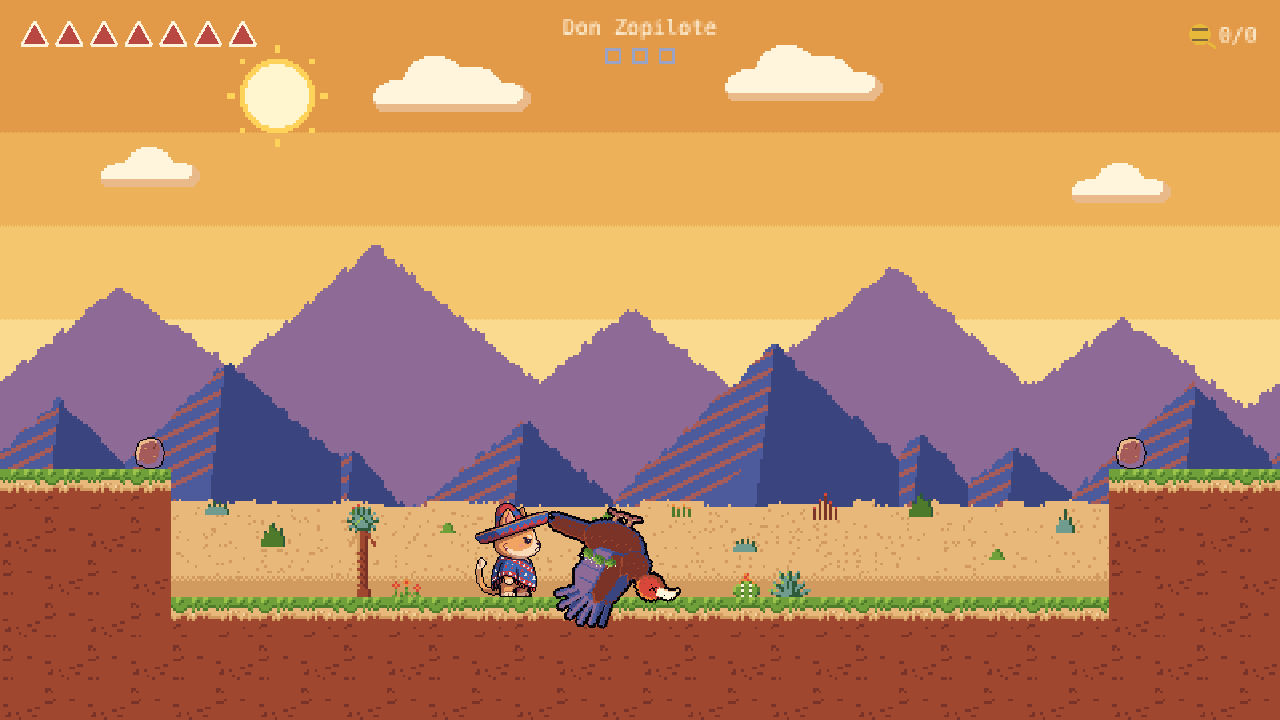
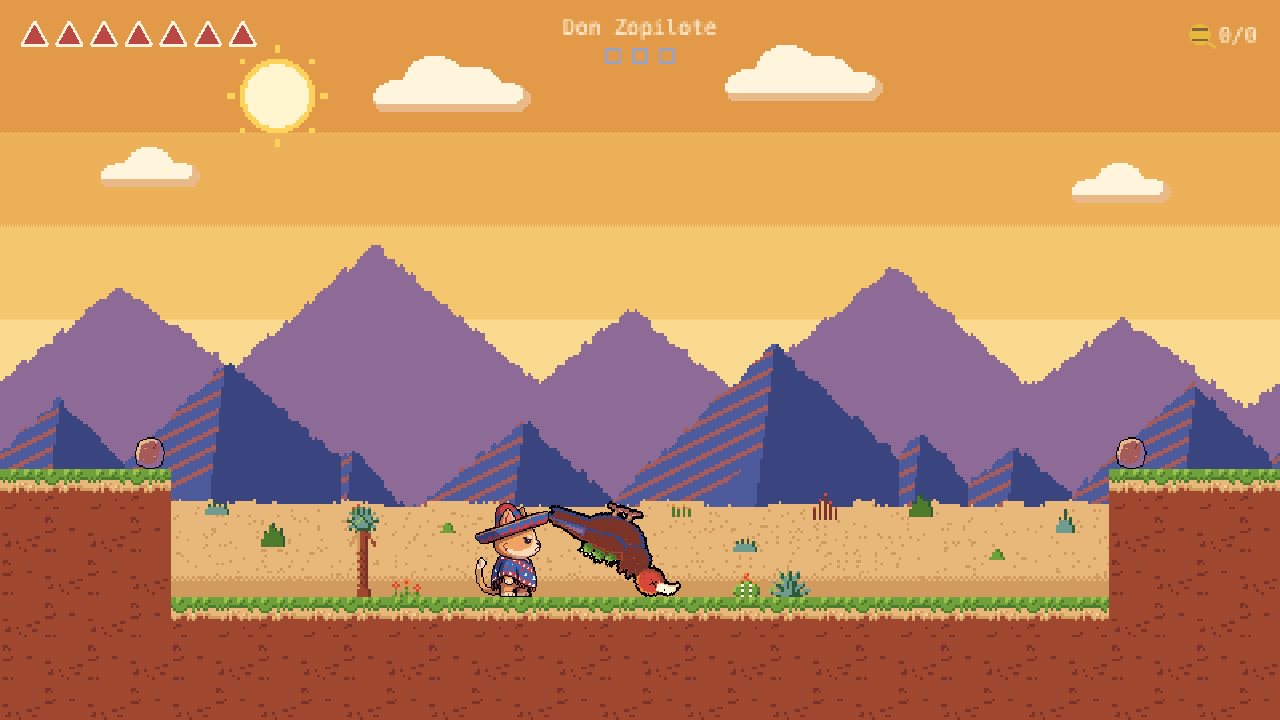
fix(GDD-BOS-02): tuck his wings when hurt or defeated, test the crown in every look
Review of #75: the hurt and defeat frames hung his lowered wings 12 to
16 px below the floor, where he is hurt after a claw hit and lies
defeated. Both now tuck their wings (defeat 4 px higher), with an art
test that no frame shown resting on the floor goes below his box's
bottom; bossPose reports the wings as tucked. The crown test now covers
every look, not only the flap. Screenshots retaken. L-010 recurrence 18,
new L-059.

Claude-Session: https://claude.ai/code/session_019EBq9H92oEKhrfqqV6LWWF

Changed region(s): [[0.4062, 0.7028, 0.5312, 0.8861]]

diff --git a/src/ui/bossPose.ts b/src/ui/bossPose.ts
@@ -9,7 +9,7 @@ export const BOSS_DEFEAT_LOOKS = ['defeat', 'defeatWhite'] as const;
 export type BossLook = (typeof BOSS_LOOKS)[number] | (typeof BOSS_DEFEAT_LOOKS)[number];
 
 export interface BossPose {
-  /** Raised for the telegraph and on the upbeat of a flap, tucked while he dives and sweeps, lowered otherwise. */
+  /** Raised for the telegraph and on the upbeat of a flap, tucked while he dives, sweeps, is hurt or defeated, lowered otherwise. */
   readonly wings: 'raised' | 'lowered' | 'tucked';
   /** The body's flash: red in the telegraph (GDD-ENM-01), white when hurt or defeated, on for BOSS.flashSteps and off for as many. */
   readonly flash: 'red' | 'white' | null;
@@ -49,7 +49,7 @@ export function bossPose(b: BossState): BossPose {
     }
   })();
   return {
-    wings: b.mode === 'dive' || b.mode === 'sweep' ? 'tucked' : b.mode === 'telegraph' || flapUp ? 'raised' : 'lowered',
+    wings: b.mode === 'dive' || b.mode === 'sweep' || b.mode === 'hurt' || b.mode === 'defeated' ? 'tucked' : b.mode === 'telegraph' || flapUp ? 'raised' : 'lowered',
     flash,
     dazed: b.mode === 'stuck',
     crown: bossPips(b),
@@ -69,7 +69,7 @@ export function bossFrameInfo(frame: number): { look: BossLook; crown: number; w
   const defeated = frame >= BOSS.hits * BOSS_LOOKS.length;
   const look: BossLook = defeated ? BOSS_DEFEAT_LOOKS[frame - BOSS.hits * BOSS_LOOKS.length]! : BOSS_LOOKS[frame % BOSS_LOOKS.length]!;
   const crown = defeated ? 0 : BOSS.hits - Math.floor(frame / BOSS_LOOKS.length);
-  const wings = look.startsWith('flap') || look.startsWith('climb') ? (look.endsWith('Up') ? 'raised' : 'lowered') : look.startsWith('telegraph') ? 'raised' : look === 'dive' || look === 'sweep' ? 'tucked' : 'lowered';
+  const wings = look.startsWith('flap') || look.startsWith('climb') ? (look.endsWith('Up') ? 'raised' : 'lowered') : look.startsWith('telegraph') ? 'raised' : look === 'dive' || look === 'sweep' || look.startsWith('hurt') || look.startsWith('defeat') ? 'tucked' : 'lowered';
   const flash = look === 'telegraphRed' ? 'red' : look === 'hurtWhite' || look === 'defeatWhite' ? 'white' : null;
   return { look, crown, wings, flash, dots: look === 'stuck' ? 3 : 0 };
 }

diff --git a/src/ui/bossPose.test.ts b/src/ui/bossPose.test.ts
@@ -40,7 +40,7 @@ describe('GDD-BOS-02 how Don Zopilote is drawn', () => {
     for (const [mode, white, plain] of [['hurt', 'hurtWhite', 'hurt'], ['defeated', 'defeatWhite', 'defeat']] as const) {
       const poses = [0, 3, 4, 8].map((a) => bossPose(inMode(mode, a)));
       expect(poses.map((p) => p.flash), mode).toEqual(['white', 'white', null, 'white']);
-      expect(poses.map((p) => p.wings), mode).toEqual(Array(4).fill('lowered'));
+      expect(poses.map((p) => p.wings), mode).toEqual(Array(4).fill('tucked'));
       expect(poses.map((p) => p.look), mode).toEqual([white, white, plain, white]);
     }
   });
@@ -66,10 +66,10 @@ describe('GDD-BOS-02 how Don Zopilote is drawn', () => {
     expect(bossFrameInfo(2)).toEqual({ look: 'climbUp', crown: 3, wings: 'raised', flash: null, dots: 0 });
     expect(bossFrameInfo(3)).toEqual({ look: 'climbDown', crown: 3, wings: 'lowered', flash: null, dots: 0 });
     expect(bossFrameInfo(6)).toEqual({ look: 'dive', crown: 3, wings: 'tucked', flash: null, dots: 0 });
-    expect(bossFrameInfo(10)).toEqual({ look: 'hurtWhite', crown: 3, wings: 'lowered', flash: 'white', dots: 0 });
+    expect(bossFrameInfo(10)).toEqual({ look: 'hurtWhite', crown: 3, wings: 'tucked', flash: 'white', dots: 0 });
     expect(bossFrameInfo(18)).toEqual({ look: 'stuck', crown: 2, wings: 'lowered', flash: null, dots: 3 });
     expect(bossFrameInfo(30)).toEqual({ look: 'sweep', crown: 1, wings: 'tucked', flash: null, dots: 0 });
-    expect(bossFrameInfo(34)).toEqual({ look: 'defeatWhite', crown: 0, wings: 'lowered', flash: 'white', dots: 0 });
+    expect(bossFrameInfo(34)).toEqual({ look: 'defeatWhite', crown: 0, wings: 'tucked', flash: 'white', dots: 0 });
   });
 });
 

diff --git a/e2e/boss.spec.ts b/e2e/boss.spec.ts
@@ -116,9 +116,9 @@ test('GDD-BOS-02 his body flashes red in his telegraph and white when a claw swi
     return d.boss()!.mode === 'hurt' && d.bossDrawn()?.flash === 'white' && d.bossBar().pips === 2 && d.bossBar().outlines === 1;
   });
   // One hit taken: two points left on his crown (GDD-BOS-02).
-  expect(await api(page, () => window.__PONCHO__!.bossDrawn())).toMatchObject({ crown: 2, look: 'hurtWhite', wings: 'lowered' });
-  const [white, first, last] = await pixelsAt(page, [{ x: 232, y: 212 }, { x: 230, y: 21 }, { x: 250, y: 21 }]);
-  // The flash's white is World 1's pale cream, fff6d0.
+  expect(await api(page, () => window.__PONCHO__!.bossDrawn())).toMatchObject({ crown: 2, look: 'hurtWhite', wings: 'tucked' });
+  const [white, first, last] = await pixelsAt(page, [{ x: 232, y: 208 }, { x: 230, y: 21 }, { x: 250, y: 21 }]);
+  // The flash's white is World 1's pale cream, fff6d0, sampled 1 px above his middle (232, 209), clear of his tucked wing's shaded fold.
   expect(Math.min(white!.r, white!.g), JSON.stringify(white)).toBeGreaterThan(230);
   expect(white!.b, JSON.stringify(white)).toBeGreaterThan(190);
   expect(first!.g, JSON.stringify(first)).toBeLessThan(110); // still filled

diff --git a/docs/GDD.md b/docs/GDD.md
@@ -12,7 +12,7 @@ This document is the anchor for every feature. Rules:
 
 ## Changelog
 
-- **0.9.5** (2026-11-03) GDD-BOS-02, GDD-CMB-01, GDD-ART-01, GDD-ART-06: Don Zopilote's real art, from the design canvas the user approved (user, 2026-11-03: "Ok merge it and implement it!"; the design saved in `assets/characters/don-zopilote/`). A chubby turkey vulture who crowned himself king of the desert, drawn in code at Poncho's scale (`scripts/art/boss.mjs`, `assets/sprites/boss/`) in 20 of World 1's 24 colours and the outline; three cholla joints with pale spines in his back mark that he cannot be stomped; his gold tin crown has a point for each hit he has left, none once defeated. His frames: a flap while he laps or drops, tilted up while he climbs; the telegraph with beak open, eye wide and talons out; wings tucked while he dives and while he sweeps, which no longer flaps; stuck beak first in a sand mound with the three dots; hurt with crossed eyes; defeated upside down. His cactus fruit is a tuna, squashed when it lies, and the rocks red sandstone. No rule of the fight changes. Story (Proposed): he has circled over Poncho since the curse, sure the cat is done for, and holds none of his lives. Screenshots in `docs/screenshots/boss-art/`.
+- **0.9.5** (2026-11-03) GDD-BOS-02, GDD-CMB-01, GDD-ART-01, GDD-ART-06: Don Zopilote's real art, from the design canvas the user approved (user, 2026-11-03: "Ok merge it and implement it!"; the design saved in `assets/characters/don-zopilote/`). A chubby turkey vulture who crowned himself king of the desert, drawn in code at Poncho's scale (`scripts/art/boss.mjs`, `assets/sprites/boss/`) in 20 of World 1's 24 colours and the outline; three cholla joints with pale spines in his back mark that he cannot be stomped; his gold tin crown has a point for each hit he has left, none once defeated. His frames: a flap while he laps or drops, tilted up while he climbs; the telegraph with beak open, eye wide and talons out; wings tucked while he dives, while he sweeps, which no longer flaps, hurt (crossed eyes) and defeated (upside down), so nothing of him hangs below the floor; stuck beak first in a sand mound with the three dots. His cactus fruit is a tuna, squashed when it lies, and the rocks red sandstone. No rule of the fight changes. Story (Proposed): he has circled over Poncho since the curse, sure the cat is done for, and holds none of his lives. Screenshots in `docs/screenshots/boss-art/`.
 - **0.9.4** (2026-11-03) GDD-BOS-01, GDD-BOS-02, GDD-ENM-01, GDD-CMB-01, GDD-CMB-02, GDD-CMB-03, GDD-PWR-03, GDD-LIFE-02, GDD-LIFE-05, GDD-WLD-03, GDD-WLD-04, GDD-WLD-09, GDD-TEC-04, GDD-PRG-02, GDD-PRG-03, GDD-UI-01, GDD-UI-02, GDD-UI-05, GDD-AUD-02, GDD-ART-06, GDD-LIFE-03: World 1's boss, Don Zopilote, in his one-screen arena 1-4, the last of World 1's levels (user, 2026-11-02: "Don Zopilote as written", the numbers Proposed "for you to adjust after playing"; "Placeholders for now"; his rules "As planned"). GDD-BOS-01 and GDD-BOS-02 replace 0.9.0's "Decided for the build" and "Not built yet" with the built rules: a flat floor and two 3-tile pillars with a rock on each; he laps an ellipse in 4.0 s dropping four cactus fruit a lap, telegraphs 0.5 s, then dives (phases 1 and 3, 180 and 300 px/s, stuck 1.0 and 0.6 s) or sweeps the floor (phase 2). As the user decided: the claw and fireballs hit him only while he is stuck after a dive, a rock knocked by the claw in any phase, never a stomp; in phase 3 his fruit lies 3.0 s on the floor; a lost life keeps his hits and restarts his phase; running out of lives there goes back to 1-1 with seven, like anywhere in World 1. Three hits, hurt 1.0 s after each; 1.0 s after the third the level clear screen. "Next level" on 1-3 starts 1-4 with 1-3's lives, "Start" follows the World 1 run to it (user, 2026-11-02: "Follow the run"), and a clear of 1-4, World 1's last level, starts a new run at 1-1. A boss bar on the HUD; the validator's boss-level rule; 1-4 saved (no hilos, no saved run); its medal Gold for at most 3 lives lost in it, never Bronze; the stomp, land and meow sounds reused; 4 plants. Every measured number re-checked on the merged code, slopes and the lift fix included; the fruit's 0.7 to 0.9 s in view now pinned by a test. The neighbouring sections brought in line; Open Questions 19 (the pillar tops), 20 (the fruit's telegraph) and 21 (hilos in the arena) added, 18 names 1-4. Screenshots approved in session (user, 2026-11-03: "Approved, merge"; `docs/screenshots/boss/`).
 - **0.9.3** (2026-11-03) GDD-WLD-09, GDD-WLD-08, GDD-WLD-05, GDD-WLD-03, GDD-WLD-04, GDD-MOV-09, GDD-ENM-02, GDD-LIFE-03, GDD-LIFE-05, GDD-PRG-02, GDD-UI-02, GDD-UI-05, GDD-TEC-04, GDD-ART-06: level 1-3, the last level of World 1 before the boss (user, 2026-11-02: "1-3: moving platforms, doors and keys, fragile walls and moving blocks. Everything is built already, so agents only lay out and test the levels."; "Add sand slopes too"; its two quirks: "Accept both"; user, 2026-11-03, its screenshots: "Approved"). GDD-WLD-09 built: six screens with two lifts, a shuttle over spikes, three doors and keys, three fragile walls and four crushers, each first in a safe spot, then with a threat, then in a test, with sand slopes, three Tlacuaches and a crumbling bridge; 50 hilos, three ofrendas, a veladora on a ledge over the shuttle, the exit on the last cliff (GDD-WLD-03: an exit stands on the ground, not only on the floor). A bot plays it through with all seven lives in under 2400 steps. The enemies' own walks keep clear of the crushers (Proposed); two quirks are known and accepted: a full jump from the shuttle's far wall clears the second fragile wall into the Alacrán's pen, and the Tlacuache let out of the third pen walks through the crushers. 1-3 joins World 1's run and lives (user, 2026-11-02: "Build it as decided", "Save the lives", "Lives at the clear", "Keep them", "Lives lost in the level", "Follow the run"): "Next level" on 1-2's results menu starts it with 1-2's lives (1-2's results menu no longer greys it), the save moves the run on to it, "Retry" starts it with the lives at its clear, its own results menu greys "Next level" until the boss arena is built, and clearing it ends the run (World 1's last level for now); out of lives in 1-3 its hilos are saved and the restart is at 1-1 with seven; its gold counts the lives lost in 1-3 only. `?level=1-3` opens it; its progress and runs are saved. GDD-WLD-08, GDD-WLD-05, GDD-WLD-04, GDD-MOV-09, GDD-ENM-02, GDD-LIFE-03, GDD-LIFE-05, GDD-PRG-02, GDD-UI-02, GDD-UI-05, GDD-TEC-04, GDD-ART-06: sentences brought in line. Open Questions 15 and 18 name 1-3. Screenshots approved in session (`docs/screenshots/level1-3/`). GDD-WLD-05, GDD-WLD-09: a falling Poncho lands on a rising moving platform that passes his feet within one step; before, he could drop through it (user, 2026-11-02: "Fix it"). He lands where his feet began the step at or above the platform's top, where it was or where it is now, whichever is lower, unless standing there would put his body box into anything solid above it (a fragile wall, a shut door or a piñata counts like a tile). Found while laying out 1-3's lifts (GDD-WLD-09, whose "is to catch him" now says it does).
 - **0.9.2** (2026-11-02) GDD-WLD-08, GDD-LIFE-05, GDD-UI-02, GDD-PRG-02, GDD-PRG-03, GDD-WLD-07, GDD-WLD-06, GDD-WLD-04, GDD-WLD-05, GDD-LIFE-02, GDD-LIFE-03, GDD-LIFE-04, GDD-TEC-04, GDD-ART-06, GDD-ENM-02, GDD-MOV-09, GDD-UI-05: level 1-2, the lives carried through World 1, and the save keeping World 1's run, which "Start" follows (user, 2026-11-02: "I want to spawn a agent swarm so we do progress on the lvls generate all lvls left for world one."; "1-2: the Tlacuache, crumbling tiles and springs."; "Add sand slopes too"; "Three PRs in turn"; "Build it as decided"; "Save the lives"; "Lives at the clear"; "Keep them"; "Lives lost in the level"; "Follow the run", which replaced "First level not cleared"; the screenshots "Approved"). GDD-WLD-08 built: six screens with sand slopes throughout, three Tlacuaches in pens, thirteen crumbling tiles, three springs, a cactus buddy and two piñatas, each new thing first in a safe spot, then with a threat, then in a test; 50 hilos, three ofrendas, a veladora on a ledge beside the first spring, reached by its timed launch or by a jump from the wall it throws Poncho onto, an exit at column 174. "Next level" on 1-1's results menu now starts 1-2 (1-1's results menu no longer greys it), `?level=1-2` opens it, and its progress and runs are saved like 0-1's and 1-1's. A bot plays it through with all seven lives in under 1800 steps. GDD-LIFE-05 built for World 1: "Next level" and "Retry" start a World 1 level with the lives Poncho has at the clear, its ofrendas and veladora unused; the tutorial's lives carry nowhere; out of lives in 1-2, the press after the *Siete vidas gastadas* screen starts 1-1 at once with seven lives by the restart's flip. GDD-PRG-02: the save keeps World 1's run (`progress.worldLives`, the lives at each World 1 clear, 0 after the *Siete vidas gastadas* screen; `progress.worldAt`, the next level after each World 1 clear, 1-1 after World 1's last level and after the screen) and a saved run the lives it started with (`livesIn`); the hilos a run collected are saved for good when the screen comes up, in every real level (replacing the rule of 2026-10-31 that only a clear saved them); the version stays 1. GDD-UI-02: once the tutorial has started, "Start" plays the level World 1's run has reached with the lives World 1 keeps, 1-1 always with seven (after a game over too, and once the run has cleared World 1's last level, a new run); a save from before keeps the older rule (the first World 1 level not cleared); the title shows that level with those lives; an address, "Tutorial" and the restart give seven. GDD-PRG-03: gold for every hilo and at most 3 lives lost in the level, whatever Poncho came in with (`MEDAL.goldLivesLost` 3 replaces `MEDAL.goldLives` 4). GDD-LIFE-02, GDD-LIFE-03, GDD-LIFE-04, GDD-WLD-04, GDD-WLD-05, GDD-WLD-06, GDD-WLD-07, GDD-ENM-02, GDD-TEC-04, GDD-ART-06, GDD-MOV-09, GDD-UI-05: sentences brought in line. Open Questions 15 (1-2's veladora), 17 (what 1-2 brings back) and 18 (the details of World 1's run and lives). Screenshots approved in session (`docs/screenshots/level1-2/`).
@@ -691,7 +691,7 @@ Status: Proposed (user, 2026-11-02: "Don Zopilote as written"; "Placeholders for
 A giant vulture, Don Zopilote, circles the arena and drops cactus fruit. Phase 1: dodge dives. Phase 2: knock rocks onto it with claw swipes. Phase 3: faster dives plus ground hazards. Defeat in 3 hits.
 
 - **The arena, level 1-4 (built, details Proposed):** 30 x 17 tiles, one screen (480 x 272 px), World 1's last level: "Next level" on 1-3's results menu starts it (GDD-UI-02, GDD-WLD-09), and `?level=1-4` opens it. Drawn with World 1's backdrop and ground tiles (GDD-ART-06). The floor is flat (user, 2026-11-02: "As planned"): its top is row 14 (y = 224) across the whole width, with no pit and no sand slope, so World 1's boss does not test the sand slopes, as GDD-BOS-01 asks of each boss. A pillar 4 tiles wide and 3 tall stands at each side, the arena's walls (columns 0 to 3 and 26 to 29, rows 11 to 13, top y = 176): a full jump from the floor beside either one lands on its top and a short hop does not (measured by `src/levels/level1-4.test.ts`). A rock rests on the inner edge of each pillar top, its middle at x = 56 and x = 424. Poncho starts on the floor at column 14 (x = 232). No ofrendas, exit, hilos, veladora or other enemies (GDD-BOS-01). `src/levels/level1-4.ts`.
-- **Don Zopilote:** a box of 48 x 30 px, three times the Zopilote's (GDD-ENM-02), that ignores tiles. **His look (built, details Proposed; user, 2026-11-03: "Ok merge it and implement it!", of the design canvas with its key art, lore, pose sheet, crown, tunas and rocks, and palette; the design saved in `assets/characters/don-zopilote/`):** a chubby turkey vulture, the zopilote of the Chihuahuan desert, who crowned himself king of the desert ("El Rey del Desierto"): brown plumage with a cool blue shadow, silvery lilac flight feathers, a fluffy dark ruff, a bare red head, a pale hooked beak and a pale eye under a grumpy brow. Story (Proposed): he has circled over Poncho since the curse took his lives, sure the cat is done for, and drops tunas from the nopales to hurry things along; he holds none of Poncho's lives (GDD-BOS-01). Funny because he is vain, never a caricature (GDD-VIS-04). Three cholla joints stuck in his back, green with pale spines (a jumping cholla he landed in), mark that he cannot be stomped (GDD-CMB-01, GDD-ART-05): landing on him is a touch like any other (checked by `src/sim/bossfight.test.ts`). His crown, of hammered gold tin with a tuna as its jewel, has a point for each hit he has left: three, then two and one, none once he is defeated, as the boss bar's pips (GDD-UI-01). Drawn in code (GDD-ART-01) by `scripts/art/boss.mjs` into `assets/sprites/boss/don-zopilote.png`, at the scale of Poncho's drawing (2 x 2 art px a drawing pixel), outlined (GDD-ART-05) and only in World 1's colours (GDD-ART-06: 20 of its 24 and the outline, checked by `scripts/art/boss.test.mjs`); a frame is 75 x 62 game px with his box's middle at its middle, drawn facing right and mirrored when he faces left. His frames (`src/ui/bossPose.ts`): his wings flap, raised for 8 steps and lowered for 8, while he laps or drops, and while he climbs, tilted upwards; are raised through his telegraph, where his beak is open, his eye wide and his talons out; are tucked while he dives, head first, and while he sweeps the floor, talons out and beak open, with no flap; and are held lowered while he is stuck (his beak in a sand mound on the floor, tail up, the three dots over him), hurt (crossed eyes) or defeated (upside down, no crown). The red and white flashes paint every pixel but his outline (`BOSS_ART` in `src/config/tuning.ts`). He follows a fixed pattern with nothing left to chance; only where Poncho is changes it. `BOSS` in `src/config/tuning.ts`, `src/sim/boss.ts`, `src/ui/bossPose.ts`.
+- **Don Zopilote:** a box of 48 x 30 px, three times the Zopilote's (GDD-ENM-02), that ignores tiles. **His look (built, details Proposed; user, 2026-11-03: "Ok merge it and implement it!", of the design canvas with its key art, lore, pose sheet, crown, tunas and rocks, and palette; the design saved in `assets/characters/don-zopilote/`):** a chubby turkey vulture, the zopilote of the Chihuahuan desert, who crowned himself king of the desert ("El Rey del Desierto"): brown plumage with a cool blue shadow, silvery lilac flight feathers, a fluffy dark ruff, a bare red head, a pale hooked beak and a pale eye under a grumpy brow. Story (Proposed): he has circled over Poncho since the curse took his lives, sure the cat is done for, and drops tunas from the nopales to hurry things along; he holds none of Poncho's lives (GDD-BOS-01). Funny because he is vain, never a caricature (GDD-VIS-04). Three cholla joints stuck in his back, green with pale spines (a jumping cholla he landed in), mark that he cannot be stomped (GDD-CMB-01, GDD-ART-05): landing on him is a touch like any other (checked by `src/sim/bossfight.test.ts`). His crown, of hammered gold tin with a tuna as its jewel, has a point for each hit he has left: three, then two and one, none once he is defeated, as the boss bar's pips (GDD-UI-01). Drawn in code (GDD-ART-01) by `scripts/art/boss.mjs` into `assets/sprites/boss/don-zopilote.png`, at the scale of Poncho's drawing (2 x 2 art px a drawing pixel), outlined (GDD-ART-05) and only in World 1's colours (GDD-ART-06: 20 of its 24 and the outline, checked by `scripts/art/boss.test.mjs`); a frame is 75 x 62 game px with his box's middle at its middle, drawn facing right and mirrored when he faces left. His frames (`src/ui/bossPose.ts`): his wings flap, raised for 8 steps and lowered for 8, while he laps or drops, and while he climbs, tilted upwards; are raised through his telegraph, where his beak is open, his eye wide and his talons out; are tucked while he dives, head first, while he sweeps the floor, talons out and beak open, with no flap, while he is hurt (crossed eyes) and while he is defeated (upside down, no crown); and are held lowered while he is stuck (his beak in a sand mound on the floor, tail up, the three dots over him). No frame he shows resting on the floor (stuck, sweeping, hurt after a claw hit, lying defeated) reaches below his box's bottom, so nothing of him hangs in front of the ground (checked by `scripts/art/boss.test.mjs`). The red and white flashes paint every pixel but his outline (`BOSS_ART` in `src/config/tuning.ts`). He follows a fixed pattern with nothing left to chance; only where Poncho is changes it. `BOSS` in `src/config/tuning.ts`, `src/sim/boss.ts`, `src/ui/bossPose.ts`.
 - **Circling:** he laps an ellipse 152 px to either side of a middle the level gives and 16 px above and below it (x = 240, y = 72 in 1-4), once in 4.0 s (240 steps), starting and ending at its right or left end (x = 392 or 88 in 1-4): from the right end he goes leftwards along its lower half first, from the left end rightwards along its upper half first. The fight starts with him at the right end. He drops a cactus fruit on the 40th, 100th, 160th and 220th step of each lap, its top at his box's bottom: in 1-4, from the right end they fall at x = 316, 108, 164 and 372, from the left end at 164, 372, 316 and 108 (measured by `src/sim/boss.test.ts`). He faces the way he moves across; when he does not move across he keeps the way he faced.
 - **Telegraph (GDD-ENM-01):** at the end of each lap he freezes for 0.5 s (30 steps) before his attack, facing Poncho, wings raised and body flashing red, 4 steps on and 4 off. In phases 1 and 3 the attack is a dive, in phase 2 a sweep.
 - **Dive (phases 1 and 3):** as the telegraph ends he takes the middle of Poncho's hurtbox, across only, and dives in a straight line to the floor below it (his box's bottom on the floor's top), that x kept between the ends of his lap (88 to 392 in 1-4), so he never clips a pillar. He dives at 180 px/s in phase 1 and at 300 px/s in phase 3. Then he is stuck in the sand, dazed (three pale dots over his head): 1.0 s (60 steps) in phase 1, 0.6 s (36 steps) in phase 3. Then he climbs in a straight line at 120 px/s to the nearer end of his lap (the right one when he is in the middle) and laps from there. In 1-4 a phase 1 dive aimed at the start (x = 232) sticks him in the sand 71 steps after it starts (measured by `src/sim/boss.test.ts`).

diff --git a/docs/LESSONS.md b/docs/LESSONS.md
@@ -156,7 +156,8 @@ Retired IDs: L-046
 - **Recurrence 15 (2026-11-02, PR #71, GDD-MOV-09 sand slopes, found by the review):** the taco's "a step up into a ceiling is not taken" guard reverts two fields (`x = fromX; y = fromY;`); the plan mutated the guard into the flush beside it, but not each revert, and the test accepted a range of turn positions, so deleting the revert, or only its `y`, survived. The step named conditions over several fields, not reverts of several; it now names both, and a test over a 45-degree ramp under a low ceiling pins the `y` revert.
 - **Recurrence 16 (2026-11-03, PR #72, GDD-WLD-08 Start follows the run, found by the review):** `worldAtAfter`'s `event === 'clear' && entry.next !== undefined` had one mutant (the game-over branch writing nothing), and its only game-over test used 1-2, which names no next level, so dropping the `event` clause survived. The skill step already names conditions over several fields; my own addendum plan did not apply it to this `&&`. A game over in 1-1 is now tested in a unit test and in the playtest's saved `worldAt`.
 - **Recurrence 17 (2026-11-03, PR #73, the `gdd-one-version` gate check of L-057, found by the review):** the check was proved to fail on one bad GDD, but I ran no mutants on its own logic; its fake git answered every `merge-base` call, so asking for `merge-base HEAD HEAD` (which turns the check off) survived the unit tests. The mutation step lives in `harness-feature`, and a retro's new guard does not go through that skill; `harness-retro` step 3 and `docs/HARNESS.md` (Adding a check) now ask for one mutant per condition and per argument inside a new guard's module, and the fake git answers only `merge-base origin/main HEAD` (13 mutants, all caught).
-- **Recurrence:** 17
+- **Recurrence 18 (2026-11-04, PR #75, Don Zopilote's art, found by the review):** the crown rule ("a point for each hit he has left") is drawn in 11 looks at three crowns, but its art test counted the crown's gold in the flap frame only, so a mutant giving every hurt frame three points survived. The skill step already says a helper used at several sites needs a test that reaches every site; the plan applied it to the pose code, not to the drawing's looks. The test now covers every look that shows his colours, and its mutant is caught.
+- **Recurrence:** 18
 - **Promoted:** .claude/skills/harness-feature (mutation step, now one mutation per new GDD rule; a condition over several fields, or a revert of several, is one change per field), .claude/skills/harness-retro (step 3: a new guard's own mutants), pr-reviewer subagent. (Fifth time, the Tlacuache: two play-dead tests read the 2.0 s from `TLACUACHE.playDeadSteps`, so moving it did not fail them; the mutation step caught it before the commit, and the tests now say 119 and 120 steps.) (Sixth time, the same PR: the reviewer found two Tlacuache rules with no test that could fail, the claw half of "the claw or a fireball wins over a first stomp" and the wake-up twitch. My mutations went bullet by bullet and missed clauses; the feature skill now asks for one mutation per clause.) (Seventh time, PR #35: the clause "so it always starts at its normal size" was tested only for the first drop to one; resetting the start when the lives leave one had no test. The start tracking moved into a pure helper with unit tests for each path.) (Eighth time, PR #44: the hilo playback rate was computed in `PlayScene`, and the plan left the scene out of the mutants, so the reviewer could set the rate to 1 with every test green. The rate moved into a pure helper (`noteRate`) and the scene logs the rate it passes, checked in e2e; the feature skill now names numbers computed in a scene.) Guard: none (only a mutant shows that a test can fail, and no script can tell which GDD clauses a plan left without one; the pr-reviewer mutates every new rule).
 
 ## L-011 Generated audio was never listened to or measured
@@ -652,5 +653,15 @@ Retired IDs: L-046
 - **What went wrong:** After #73 merged, I replayed Don Zopilote's build from its local staging branch into the main checkout, then started agents to check its GDD draft against the merged code. Waiting on them meant ending a turn, and the session's stop hook (it checks the main checkout only) asked for the uncommitted changes to be committed and pushed. So 0b80c39 pushed `BOSS`, `FRUIT`, `ROCK` and `BOSS_BAR` in `src/config/tuning.ts` with no GDD numbers for them, against the rule that a tuning number and its GDD text change in the same commit (CLAUDE.md), and the PR opened as a work in progress.
 - **Root cause:** The replay was done as the first step instead of the last: the GDD check needed the merged code, but it could have read it in the staging worktree, where uncommitted work does not trip the stop hook.
 - **Rule:** Keep a staged feature on its staging branch or worktree until its GDD text is ready; check the GDD draft against the code there, and replay code, GDD and backlog onto the PR branch together, in one commit, right before the gate and the push.
+- **Recurrence:** 1
+- **Promoted:** no
+
+## L-059 A sprite frame drawn without checking where the game shows it hung below the floor
+
+- **Date:** 2026-11-04
+- **Area:** art
+- **What went wrong:** Don Zopilote's hurt and defeated frames (PR #75) were drawn with his wings lowered, as in the design canvas, where he hovered in the sky. In the game he is hurt on the floor after a claw hit and lies there defeated, with his box's bottom on the floor's top, so the wings hung 12 to 16 px below it, in front of the ground tiles. The art tests checked the palette, the outline and the crown, not where each frame is shown; the reviewer found it in the screenshots.
+- **Root cause:** The frames were designed one by one as poses, not against the places the game draws them: the plan listed which mode picks each frame, but not where his box is in that mode.
+- **Rule:** When planning a sprite's frames, list for each frame where the game shows it (in the air, resting on the floor, against a wall) and plan an art test that its painted cells stay inside the room it has there, such as nothing below the box's bottom for a frame shown resting on the floor (`scripts/art/boss.test.mjs`, "the frames he shows resting on the floor stay above it").
 - **Recurrence:** 1
 - **Promoted:** no

diff --git a/assets/characters/don-zopilote/README.md b/assets/characters/don-zopilote/README.md
@@ -10,7 +10,7 @@ The look, which the sprite follows (`scripts/art/boss.mjs`, the drawing these im
 - **A turkey vulture** (the zopilote of the Chihuahuan desert), chubby: brown plumage with a cool blue shadow, silvery lilac flight feathers with five finger tips, a fluffy dark ruff, a bare red head with wrinkles, a pale hooked beak, a pale eye under a heavy, grumpy brow.
 - **A crown of hammered gold tin** with a tuna as its jewel and three points, one for each hit he has left: a hit knocks one off, and he has none when defeated.
 - **Three cholla joints** stuck in his back, green with pale spines: why he cannot be stomped.
-- **Poses:** a flap (wings up and down), a climb (tilted up), the telegraph (wings up, beak open, eye wide, talons out; flashing red), the dive (wings tucked, head first), stuck (beak in a sand mound, tail up, three dots), the sweep (wings tucked, talons out, beak open), hurt (crossed eyes, wings down; flashing white), defeated (upside down, no crown; flashing white).
+- **Poses:** a flap (wings up and down), a climb (tilted up), the telegraph (wings up, beak open, eye wide, talons out; flashing red), the dive (wings tucked, head first), stuck (beak in a sand mound, tail up, three dots), the sweep (wings tucked, talons out, beak open), hurt (crossed eyes, wings down in the design; flashing white), defeated (upside down, no crown; flashing white). In the game, hurt and defeated tuck their wings, so nothing of him hangs below the floor when he is hurt or lies there (GDD-BOS-02, 0.9.5).
 - **His tunas:** red prickly pears with pale glochids and a green cut end, squashed flat when lying. **The rocks:** red sandstone, outlined.
 - **Colours:** only World 1's palette (GDD-ART-06) and the outline he shares with Poncho (GDD-ART-05).
 - **Tone (GDD-VIS-04):** funny because he is vain, never a caricature: no sombrero, no moustache.
